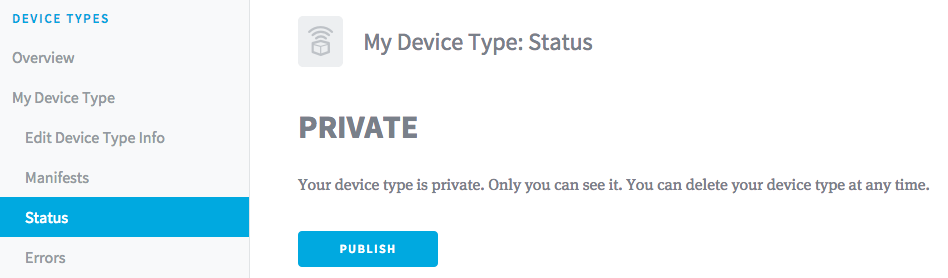
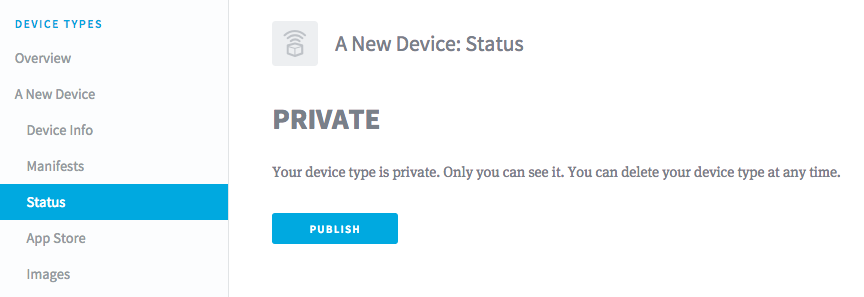
SAMIDE-193 update devportal docs

diff --git a/source/sami/sami-documentation/developer-user-portals.md b/source/sami/sami-documentation/developer-user-portals.md
@@ -22,49 +22,56 @@ The Developer Portal is located at [devportal.samsungsami.io.](http://devportal.
 
 ### Creating an application
 
-- If this is your first application, click the "Create Application" button on the Developer dashboard.
-  - If you've already made an application, the button is accessed by clicking "Applications" in the top menu:<br /><br />
-![Developer Portal](/images/docs/sami/sami-documentation/developer-portal-header.png)
-- On the next page, fill out a name and redirect URL for your application.
-- Choose an OAuth2 grant type. (See [Authentication](/sami/sami-documentation/authentication.html) for more details.)
-- Choose "Read" and/or "Write" permissions for your application.
-- Click the "Add Device Type" button to associate a device type with your application.
-  - Select one of the published device types from the pulldown list.
-  - Choose "Read" and/or "Write" permissions for the device type.
-- You may click the "Add Device Type" button again to add more device types:<br /><br />
-![Create an application](/images/docs/sami/sami-documentation/create-application-form.png)
-- When you are done, click "Save Application". You will be returned to your list of applications.
+- Click "+ New Application" in the menu at the top of the Developer Portal.
+![Developer Portal](/images/docs/sami/sami-documentation/devportal-dashboard-createnew.png)
+- Fill out a name, short description, details (in rich text) and redirect URL for your application. Click "Save Application". 
+- This takes you to the Application Detail view, where you can enter and edit more information.
+  - **Permissions**: Choose an OAuth2 grant type (see [Authentication](/sami/sami-documentation/authentication.html) for more details) and "Read" and/or "Write" permissions.
+    - You can also "Set Permissions for a Specific Device" by clicking this option and selecting a published device type from the menu. Doing so will reveal the device type ID.
+    ![Developer Portal](/images/docs/sami/sami-documentation/devportal-application-adddevicetype.png)
+    - Click "+ Add Device Type" to add more device types.
+  - **App Store**: Your publisher name, publisher URL and support URL are required fields:
+    ![Developer Portal](/images/docs/sami/sami-documentation/devportal-application-pubinfo.png)
+    - You can also paste your privacy policy and Terms of Use (in rich text) and add install URLs. 
+    - Select relevant categories from the list and write tags (separated by spaces) to make your application more discoverable by other developers and users.
+  - **Images**: Upload relevant images for your application's entry (the specs are on the page).
+- When you are done on each page, be sure to click "Save".
 
 #### How to find your application ID
 
 You will need your application ID (also called a client ID) to use in API calls. Here's how to locate it.
 
-- Click either "Applications" in the top menu or "View All" under the list of Applications on your dashboard.
-- This brings up your list of applications, sorted by name.
-- Click the relevant application name. This brings up a submenu.
-- Click "Edit App Info".
-- Now click "Show Client ID & Secret" on the resulting page.
-  - The application ID is the string found next to "Client ID".<br /><br />
-![Reveal client ID](/images/docs/sami/sami-documentation/application-client-id-reveal-2.png)
-
+- Click the relevant application name on your dashboard.
+- This brings up the Application Detail view.
+- Click **App Info** in the left navigation bar.
+- Now click "Show Client ID & Secret".
+![Reveal client ID](/images/docs/sami/sami-documentation/devportal-application-clientid.png)
+  - The application ID is the string found next to "Client ID".
+![Reveal client ID](/images/docs/sami/sami-documentation/application-client-id-reveal-3.png)
 
 ### Creating a device type
 
-Creating and publishing a device type makes it available to all developers that want to store data in SAMI using a client of this device type.
+Creating and publishing a device type makes it available to all developers that want to store data in SAMI using a client with this device type.
 
 You will also need to [learn how to write a Manifest](/sami/sami-documentation/the-manifest.html) for your device type. 
 
-- Click "Device Types" in the menu at the top of the Developer Portal.<br /><br />
-![Developer Portal](/images/docs/sami/sami-documentation/developer-portal-header.png)
-- Click the "+ New Device Type" button.
-- Fill out the name, unique name and description for your device type. The form helps you format the unique name so that it is consistent with the other device types in SAMI. 
-- Choose whether to create a Simple Manifest or Advanced Manifest. [The Manifest](/sami/sami-documentation/the-manifest.html) explains the differences between them and how they are created.<br /><br />
-  ![Create a device type](/images/docs/sami/sami-documentation/create-device-type-form-2.png)
-- Click the "Create Device Type" button. You will be returned to the dashboard with your new device type on the list.
+- Click "+ New Device Type" in the menu at the top of the Developer Portal.
+![Developer Portal](/images/docs/sami/sami-documentation/devportal-dashboard-createnew.png)
+- Fill out the display name, unique name (a format example is given) and short description for your device type.
+  ![Create a device type](/images/docs/sami/sami-documentation/devportal_newdevicetype.png)
+- Click the "Create Device Type" button.
+- This takes you to the Device Type Detail view, where you can enter and edit more information.
+  - **Manifests**: Click "+ New Version" to create a Manifest for your device type.
+    - Choose whether to create a Simple Manifest or Advanced Manifest. [The Manifest](/sami/sami-documentation/the-manifest.html) explains the differences between them and what goes into creating one.
+  - **App Store**: Your manufacturer name, manufacturer URL and support URL are required fields.
+    ![Developer Portal](/images/docs/sami/sami-documentation/devportal-application-manuinfo.png)
+    - You can also paste your privacy policy and Terms of Use (in rich text) and add a purchase URL. 
+    - Select relevant categories from the list and write tags (separated by spaces) to make your device type more discoverable by other developers and users.
+  - **Images**: you can upload relevant images for your device type's entry (the specs are on the page).
 
 ### Publishing a device type
 
-All device types are created as "Private" by default. If you want other SAMI developers to be able to use your device type, you need to Publish it. If you used a Simple Manifest in the steps above, the device is immediately ready to be published. 
+All device types are created as "Private" by default. If you want other SAMI developers to be able to use your device type, you need to Publish it. If you used a Simple Manifest in the steps above, the device is automatically ready to be published. 
 
 If you used an Advanced Manifest, the device type initially has a "Pending" status. Once we have reviewed your Manifest, you will be sent an email notifying you of a change in status. If the device type is Approved, you can immediately Publish the device type:
 
@@ -78,9 +85,7 @@ If your Manifest for the device type was Rejected, you will first have to resubm
 
 ### Updating a device type
 
-<div  class="photo-grid" style="max-width: 512px;">
 ![SAMI architecture overview](/images/docs/sami/sami-documentation/device-type-update.png)
-</div>
 
 - From the dashboard, click the name of the device type you want to update.
 - On the next page, click "Manifests" on the left.
